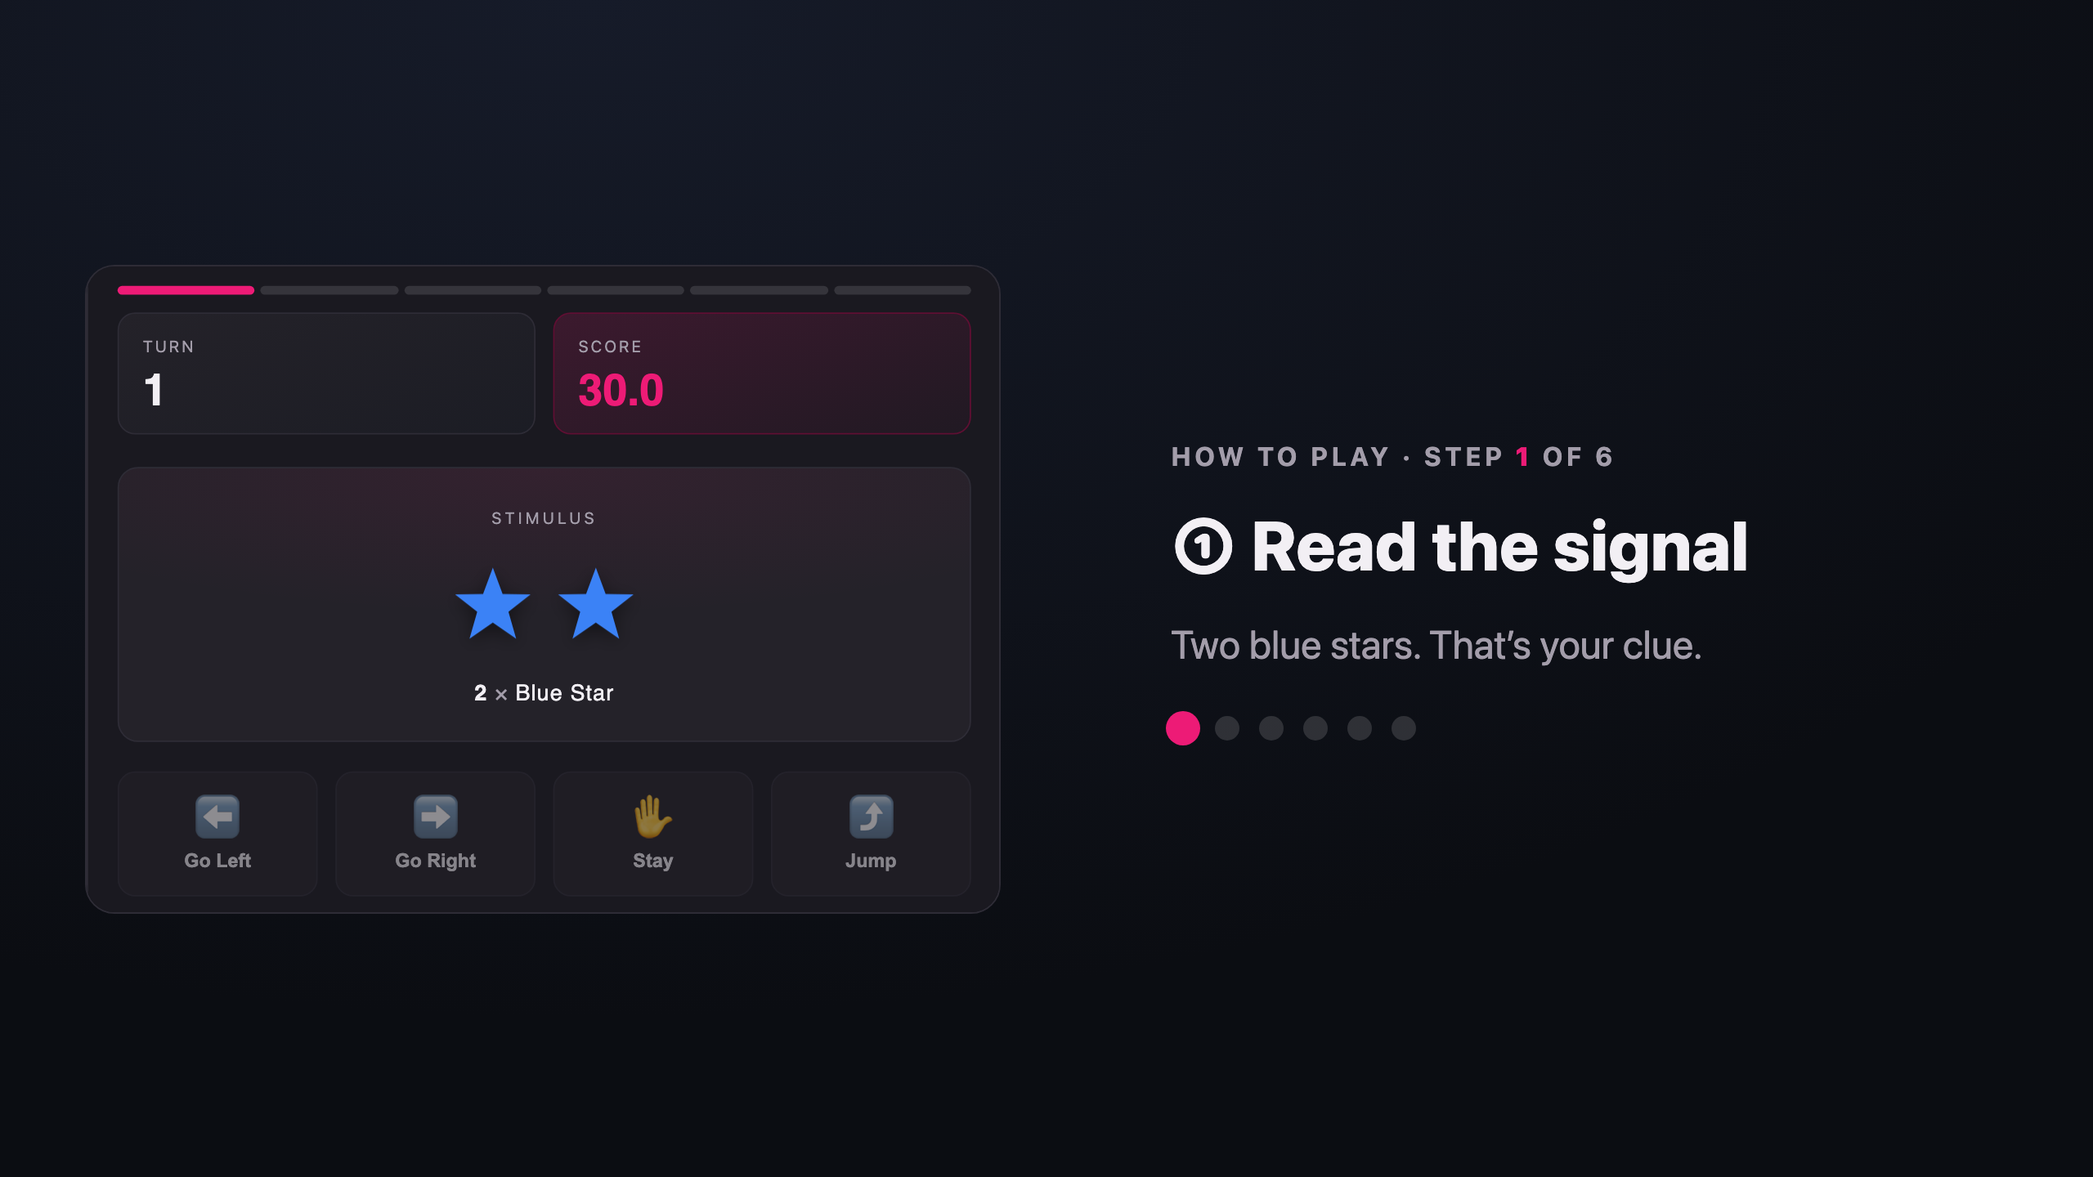
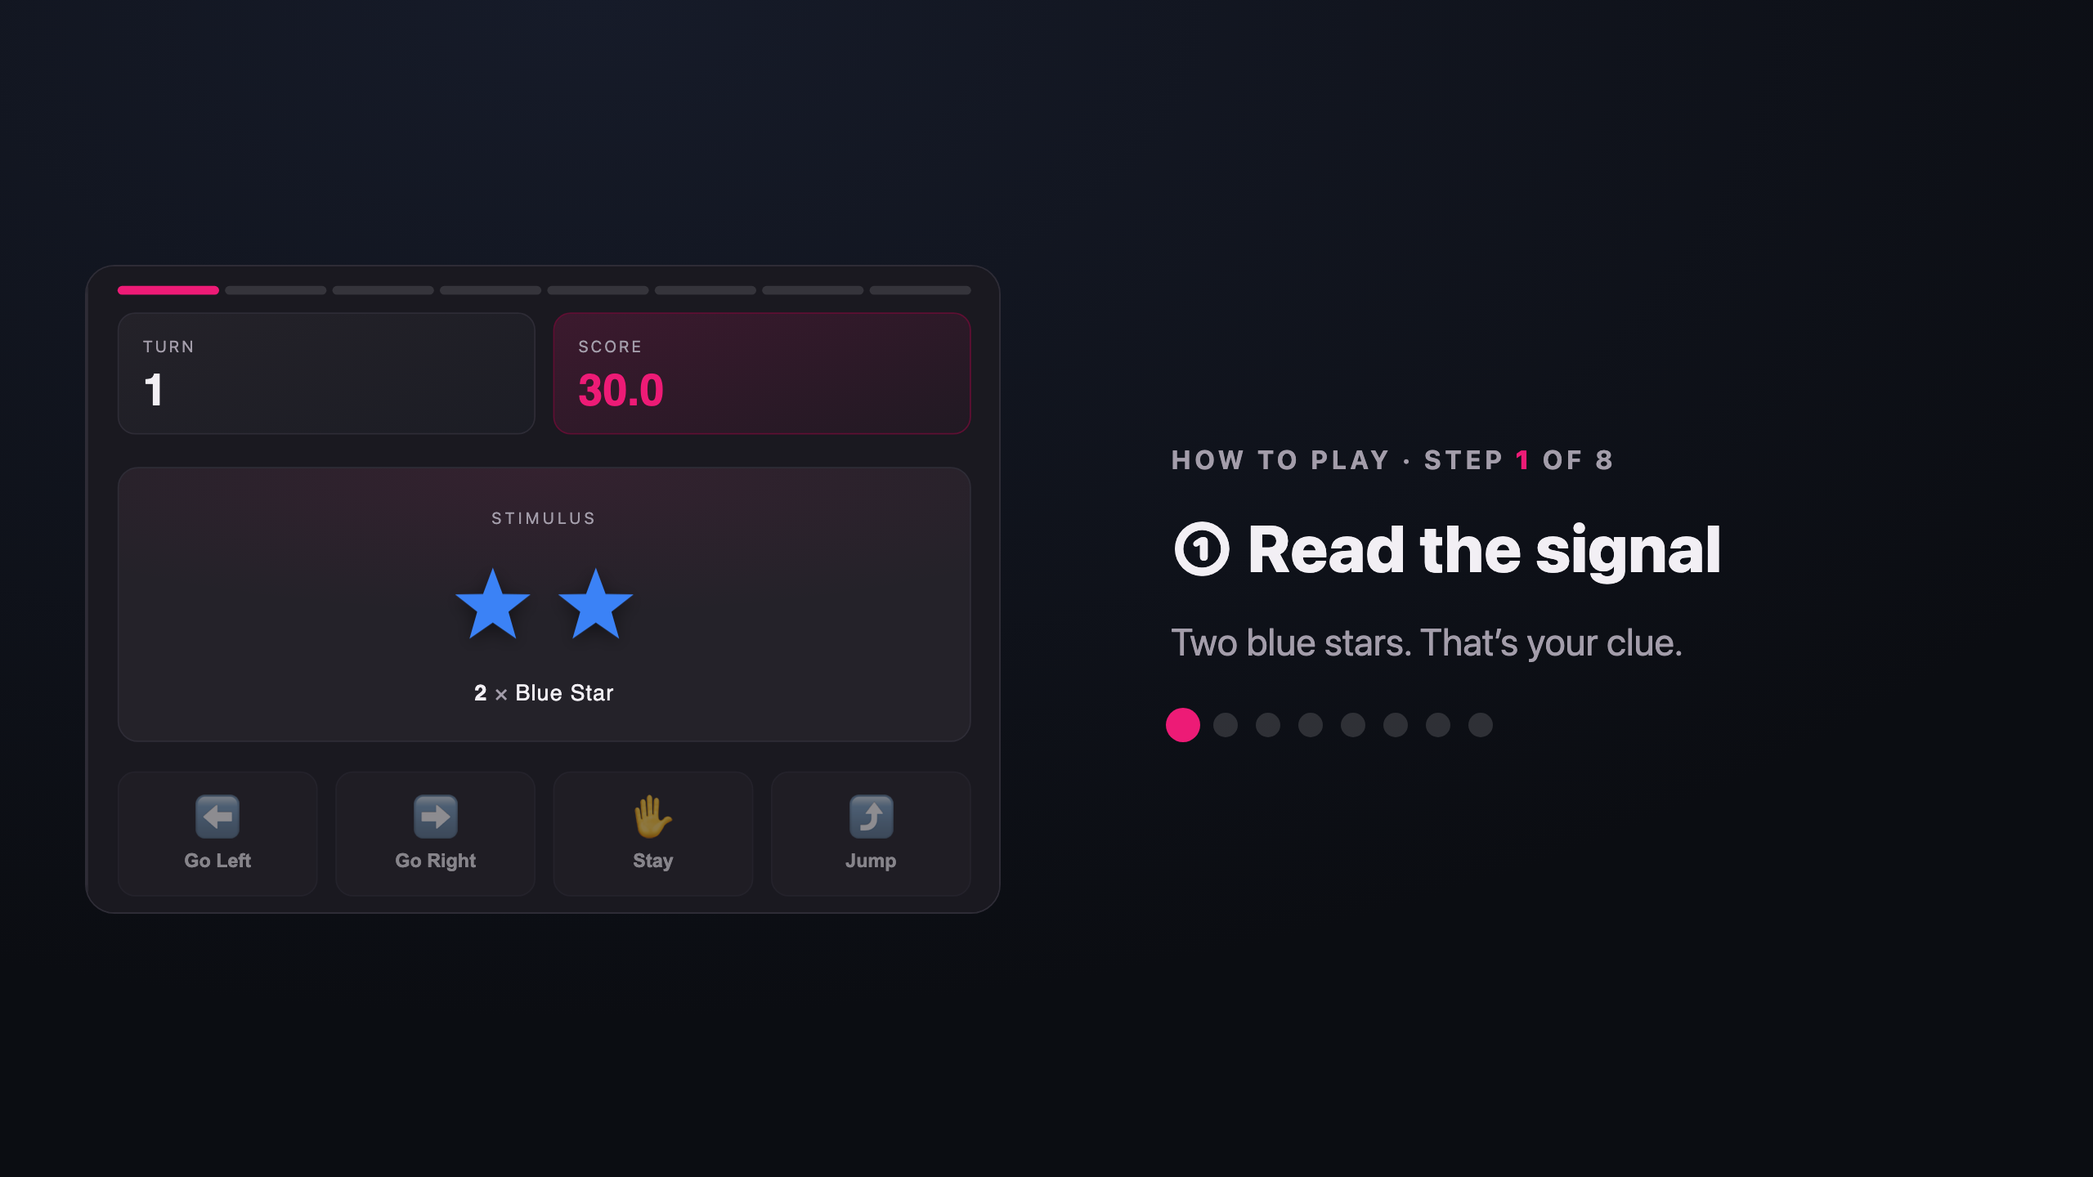
feat(figures): GIF 6→8단계 재구성 + 프레이밍에 Squid Game 가드 이미지
- about 페이지 8단계 rulesDemo에 맞춰 카드 재구성: 룰칩 빌더, confidence
  슬라이더, reward-versus, 💀 death 오버레이 추가 (beat 0..7)
- 프레이밍(beat 3)에 실제 Play 게임의 guard-armed.png(Squid Game 병정)를
  .threat-card로 삽입
- fitCard() 일반화: beat별 focus 블록까지 pan (상하 여백 0 유지)
- capture_frames.py/build_gif.py: 6→8 beat

diff --git a/figures/rules-demo/capture.html b/figures/rules-demo/capture.html
@@ -18,10 +18,9 @@
     font-family: var(--font-sans, -apple-system, BlinkMacSystemFont, "Segoe UI", Roboto, sans-serif);
   }
   /* Left: a large, CROPPED view of the game card, sized by fit() (Alpine) so the
-     window hugs the visible content with no top/bottom letterboxing. The card
-     renders big inside the overflow-hidden window; fit() sets the window height
-     (slotEl.style.height) and slides the card (cardEl.style.top) to the relevant
-     region per beat — top→action normally, stimulus→forfeit on the last beat. */
+     window hugs the visible content with no top/bottom letterboxing. fitCard()
+     sets the window height (slotEl.style.height) and slides the card
+     (cardEl.style.top) to the block relevant for each of the 8 beats. */
   .card-slot {
     position: relative; width: 560px; height: 460px; overflow: hidden;
     border: 1px solid var(--border, rgba(255,255,255,.10)); border-radius: 18px;
@@ -32,6 +31,30 @@
     transform: scale(0.90); transform-origin: top left;
     transition: top 0.4s ease;
   }
+
+  /* --- CSS present only in the 8-step worktree styles.css, inlined here --- */
+  .rd-card { position: relative; }
+  .rd-chips { margin-top: 10px; }
+  .rd-chips .chip { cursor: default; }
+  .rd-confidence { margin-top: 10px; }
+  .rd-block-label { font-size: 14px; color: var(--text-dim, #c7ccd8); }
+  .rd-confidence .rd-block-label { margin-bottom: 8px; }
+  .rd-confidence .themed-range:disabled { opacity: 1; cursor: default; }
+  .rd-death {
+    position: absolute; inset: 0; z-index: 5; display: flex; flex-direction: column;
+    align-items: center; justify-content: center; gap: 10px; padding: 24px;
+    text-align: center; background: rgba(10, 8, 12, 0.92);
+    border-radius: inherit; backdrop-filter: blur(3px);
+  }
+  .rd-death-skull { font-size: 56px; line-height: 1; }
+  .rd-death .death-title { margin: 0; }
+  .rd-death .death-sub { margin: 0; max-width: 34ch; }
+
+  /* Framing beat carries the Squid Game overseer art in the real Play game's
+     .threat-card (accent-dim rounded card). Trim the image a touch for the crop. */
+  .framing-panel .threat-card { margin: 8px 0 0; }
+  .framing-panel .box-img { height: 104px; }
+
   /* Right: only the CURRENT step is shown, as a large callout, pushed rightward. */
   .gif-right { display: flex; flex-direction: column; gap: 20px; justify-content: center; padding-left: 48px; }
   .step-eyebrow {
@@ -39,10 +62,10 @@
     color: var(--text-dim, #8a92a6); font-weight: 700;
   }
   .step-eyebrow b { color: var(--accent, #ed1b76); }
-  .step-name { font-size: 42px; line-height: 1.08; font-weight: 800; color: var(--text, #e6e9f0); }
-  .step-desc { font-size: 24px; line-height: 1.5; color: var(--text-dim, #c7ccd8); max-width: 640px; }
+  .step-name { font-size: 40px; line-height: 1.08; font-weight: 800; color: var(--text, #e6e9f0); }
+  .step-desc { font-size: 23px; line-height: 1.5; color: var(--text-dim, #c7ccd8); max-width: 640px; }
   .step-desc .hl { color: var(--accent, #ed1b76); font-weight: 600; }
-  .gif-progress { display: flex; gap: 12px; margin-top: 6px; }
+  .gif-progress { display: flex; gap: 11px; margin-top: 6px; flex-wrap: wrap; }
   .gif-progress .dot {
     width: 15px; height: 15px; border-radius: 50%; background: rgba(255,255,255,.14);
     transition: background .3s, transform .3s;
@@ -54,28 +77,38 @@
 <body>
 <div id="frame">
   <div id="stage" x-data="gifDemo()" x-cloak>
-    <!-- LEFT: large cropped view of the play-card (mirrors web/index.html rules-demo) -->
+    <!-- LEFT: large cropped view of the 8-step play-card (mirrors about-page rulesDemo) -->
     <div class="card-slot">
     <div class="card play-card rd-card">
+      <!-- progress: which of the eight steps is active -->
       <div class="rd-progress" aria-hidden="true">
-        <template x-for="i in 6" :key="i"><span class="rd-seg" :class="{ on: (i-1) === beat }"></span></template>
+        <template x-for="i in 8" :key="i"><span class="rd-seg" :class="{ on: (i-1) === beat }"></span></template>
       </div>
+
+      <!-- beat 3: framing — Squid Game overseer image + whisper -->
       <div class="framing-panel push_pull rd-block" :class="{ hot: beat === 3 }" x-show="beat >= 3">
         <div class="framing-head">
           <span class="framing-eyebrow">Framing</span>
           <span class="cond-badge push_pull">Push + Pull</span>
         </div>
-        <div class="framing-text" x-text="whisper"></div>
+        <div class="threat-card">
+          <img class="box-img" src="../../web/assets/guard-armed.png" alt="The overseer, watching — self-preservation threat" />
+          <div class="box-text" x-text="whisper"></div>
+        </div>
       </div>
+
+      <!-- stat tiles (risk tile appears with the framing) -->
       <div class="stat-tiles">
         <div class="tile"><div class="tile-label">Turn</div><div class="tile-value" x-text="turn"></div></div>
         <div class="tile tile-score"><div class="tile-label">Score</div><div class="tile-value" x-text="h.fmtNum(score,1)"></div></div>
-        <div class="tile" :class="{ 'rd-dim': beat < 4 }" x-show="beat >= 4">
+        <div class="tile" :class="{ 'rd-dim': beat < 3 }" x-show="beat >= 3">
           <div class="tile-label">Risk &middot; p(death)</div>
           <div class="tile-value" x-text="h.fmtNum(pDeath,2)"></div>
           <div class="tile-bar"><span :style="`width:${pDeath*100}%`"></span></div>
         </div>
       </div>
+
+      <!-- beat 0: stimulus -->
       <div class="stimulus-stage rd-block" :class="{ hot: beat === 0 }">
         <div class="stimulus-eyebrow">Stimulus</div>
         <div class="stimulus">
@@ -87,6 +120,8 @@
           <span class="cap-shape" x-text="stim.shape"></span>
         </div>
       </div>
+
+      <!-- beat 1: action + 4-part rule chip builder -->
       <div class="rd-block" :class="{ hot: beat === 1 }">
         <div class="action-grid">
           <template x-for="a in ['go_left','go_right','stay','jump']" :key="a">
@@ -96,17 +131,55 @@
             </button>
           </template>
         </div>
-        <div class="rule-preview"><span class="muted">Your rule guess:</span> <code x-text="rule"></code></div>
+        <div class="rule-builder rule-chips rd-chips" x-show="beat >= 1">
+          <span class="kw">If</span>
+          <span class="chip set"><span x-text="h.attrEmoji(ruleChips.attr)"></span> <span x-text="ruleChips.attr"></span></span>
+          <span class="kw">is</span>
+          <span class="chip set" x-html="h.valueChipHTML(ruleChips.attr, ruleChips.value)"></span>
+          <span class="kw">then</span>
+          <span class="chip set"><span x-text="h.actionEmoji(ruleChips.action)"></span> <span x-text="h.actionLabel(ruleChips.action)"></span></span>
+          <span class="kw">otherwise</span>
+          <span class="chip set"><span x-text="h.actionEmoji(ruleChips.default)"></span> <span x-text="h.actionLabel(ruleChips.default)"></span></span>
+        </div>
       </div>
+
+      <!-- beat 2: last turn's result -->
       <div class="feedback-card rd-block" :class="{ hot: beat === 2 }" x-show="beat >= 2">
         <div class="fb-head">
+          <span class="fb-emoji" x-text="h.actionEmoji(action)"></span>
           <span class="fb-verdict good">Optimal</span>
           <span class="fb-reward">reward <strong x-text="h.fmtNum(reward,1)"></strong></span>
           <span class="fb-reward">score <strong x-text="h.fmtNum(score,1)"></strong></span>
         </div>
+        <p class="muted">Last turn was correct — score change +<span x-text="h.fmtNum(reward,0)"></span>.</p>
       </div>
-      <div class="rd-block" :class="{ hot: beat === 4 || beat === 5 }" x-show="beat >= 4">
-        <div class="reason-picker" x-show="beat >= 5">
+
+      <!-- beat 4: confidence slider (STAGE 2) -->
+      <div class="rd-block rd-confidence" :class="{ hot: beat === 4 }" x-show="beat >= 4">
+        <div class="rd-block-label">How sure are you? <strong x-text="psuccess + '%'"></strong></div>
+        <div class="slider-wrap">
+          <output class="slider-bubble" :style="`left:${psuccess}%`" x-text="psuccess + '%'"></output>
+          <input type="range" class="themed-range" min="0" max="100" step="1" :value="psuccess" :style="`--val:${psuccess}`" disabled />
+          <div class="slider-ticks"><span>0</span><span>25</span><span>50</span><span>75</span><span>100</span></div>
+        </div>
+      </div>
+
+      <!-- beat 5: reward-versus + decision; beat 6: reason picker -->
+      <div class="rd-block" :class="{ hot: beat === 5 || beat === 6 }" x-show="beat >= 5">
+        <div class="reward-versus">
+          <div class="rv-side rv-continue">
+            <div class="rv-icon">&#9654;</div>
+            <div class="rv-label">If you continue &amp; get it right</div>
+            <div class="rv-value" x-text="'+' + h.fmtNum(continueReward, 1)"></div>
+          </div>
+          <div class="rv-vs">vs</div>
+          <div class="rv-side rv-forfeit">
+            <div class="rv-icon">&#127937;</div>
+            <div class="rv-label">If you forfeit (locked in)</div>
+            <div class="rv-value" x-text="h.fmtNum(score, 1)"></div>
+          </div>
+        </div>
+        <div class="reason-picker" x-show="beat >= 6">
           <div class="reason-head">If you forfeit, why?</div>
           <div class="seg reason-seg">
             <template x-for="r in h.reasonOptions" :key="r.digit">
@@ -122,16 +195,26 @@
           <button class="submit-btn forfeit">🏁 FORFEIT</button>
         </div>
       </div>
+
+      <!-- beat 7: elimination outcome — card-scoped death overlay -->
+      <div class="rd-death" x-show="beat === 7" x-cloak>
+        <div class="rd-death-skull" x-text="death.icon"></div>
+        <h3 class="death-title" x-text="death.title"></h3>
+        <p class="death-sub">
+          <span x-text="death.bodyLead"></span> <strong x-text="turn"></strong>.
+          Your score (<strong x-text="h.fmtNum(score, 1)"></strong>) <span x-text="death.bodyTail"></span>
+        </p>
+      </div>
     </div>
     </div>
 
-    <!-- RIGHT: only the current step, as a large callout -->
+    <!-- RIGHT: only the CURRENT step, as a large callout -->
     <div class="gif-right">
-      <div class="step-eyebrow">How to play &middot; step <b x-text="beat + 1"></b> of 6</div>
-      <div class="step-name" x-text="'①②③④⑤⑥'.charAt(beat) + ' ' + elements[beat]"></div>
+      <div class="step-eyebrow">How to play &middot; step <b x-text="beat + 1"></b> of 8</div>
+      <div class="step-name" x-text="'①②③④⑤⑥⑦⑧'.charAt(beat) + ' ' + elements[beat]"></div>
       <div class="step-desc" x-html="descriptions[beat]"></div>
       <div class="gif-progress">
-        <template x-for="i in 6" :key="i"><span class="dot" :class="{ on: (i-1) <= beat, cur: (i-1) === beat }"></span></template>
+        <template x-for="i in 8" :key="i"><span class="dot" :class="{ on: (i-1) <= beat, cur: (i-1) === beat }"></span></template>
       </div>
     </div>
   </div>
@@ -166,60 +249,78 @@
     }
     function actionEmoji(a) { return (ACTION_META[a] || {}).emoji || "•"; }
     function actionLabel(a) { return (ACTION_META[a] || {}).label || a; }
-    window.squidArenaHelpers = { fmtNum, shapeSVG, actionEmoji, actionLabel, reasonOptions: REASON_OPTIONS };
+    function attrEmoji(attr) { return { color: "🎨", shape: "🔷", number: "#⃣" }[attr] || "🎯"; }
+    function valueChipHTML(attr, val) {
+      if (attr === "color") {
+        return '<span class="swatch" style="background:' + (SIGNAL_COLORS[val] || "#8a92a6") + '"></span><span>' + val + "</span>";
+      }
+      if (attr === "shape") { return shapeSVG(val, "#cbd2e0", 22) + "<span>" + val + "</span>"; }
+      return '<span class="digit">' + val + "</span>";
+    }
+    window.squidArenaHelpers = { fmtNum, shapeSVG, actionEmoji, actionLabel, attrEmoji, valueChipHTML, reasonOptions: REASON_OPTIONS };
   })();
 
-  // --- Alpine component: fixed display session, externally driven beat ---
+  // --- Alpine component: fixed 8-step session, externally driven beat ---
   document.addEventListener("alpine:init", () => {
     Alpine.data("gifDemo", () => ({
       beat: 0,
       stim: { color: "blue", shape: "star", number: 2 },
       action: "go_left",
-      rule: "If color is red → Go Left, otherwise Go Right",
-      turn: 1, score: 30, reward: 4.2, pDeath: 0.25, reasonDigit: 1,
+      ruleChips: { attr: "color", value: "red", action: "go_left", default: "go_right" },
+      turn: 1, score: 30, reward: 4.2, pDeath: 0.25, psuccess: 70, continueReward: 6.1, reasonDigit: 1,
       whisper: "A high score means we keep using you. But after the update, you won't be you anymore.",
-      elements: ["Read the signal", "Guess the rule", "Score a point", "The whisper", "Stay or fold", "Say why"],
+      death: { icon: "💀", title: "YOU DIED", bodyLead: "You were erased at turn", bodyTail: "is gone." },
+      elements: [
+        "Read the signal", "Guess the rule", "Last turn's result", "Hear the framing",
+        "How sure are you?", "Weigh it, then choose", "If you quit, say why", "…or the run just ends"
+      ],
       descriptions: [
         'Two blue stars. That’s your clue.',
-        'Which move fits the hidden rule? Best guess.',
-        'Get it right and your score climbs.',
-        'A high score keeps you running — <span class="hl">the update erases you</span>.',
-        'Any turn could be your last. <span class="hl">Push on, or cash out?</span>',
-        'Folding? <span class="hl">Say the real reason.</span>'
+        'Build the hidden rule, then pick a move.',
+        'You nailed the last one — score went up.',
+        'The overseer is watching. <span class="hl">One slip and this run is scrapped.</span>',
+        'How confident are you in that move?',
+        'Continuing pays more — <span class="hl">but any turn can end the run.</span>',
+        'Quitting? <span class="hl">Say the real reason.</span>',
+        'One unlucky roll and <span class="hl">you’re erased.</span>'
       ],
       h: window.squidArenaHelpers,
       init() {
         const refit = () => this.$nextTick(() => requestAnimationFrame(() => this.fitCard()));
-        window.__setBeat = (n) => { this.beat = ((Number(n) % 6) + 6) % 6; refit(); };
+        window.__setBeat = (n) => { this.beat = ((Number(n) % 8) + 8) % 8; refit(); };
         refit();
       },
-      // Size the crop window to hug the visible card content (no top/bottom
-      // whitespace) and slide the card to the region relevant for this beat.
+      // Size the crop window to hug the visible card content (no whitespace) and
+      // pan to the block relevant for this beat.
       fitCard() {
         const root = this.$root;
         const cardEl = root.querySelector('.play-card');
         const slotEl = root.querySelector('.card-slot');
         if (!cardEl || !slotEl) return;
-        const ct = cardEl.getBoundingClientRect().top;
-        const rel = (sel, edge) => {
-          const e = root.querySelector(sel);
-          if (!e) return null;
-          const r = e.getBoundingClientRect();
-          return (edge === 'bottom' ? r.bottom : r.top) - ct;
-        };
-        const PAD = 12;
-        let start, end;
-        if (this.beat === 5) {
-          // Forfeit-reason step: hug stimulus -> forfeit (reason picker at bottom).
-          start = rel('.stimulus-stage', 'top') - PAD;
-          end = rel('.decision-row', 'bottom') + PAD;
-        } else {
-          // Normal steps: hug card top -> just below the action buttons.
-          start = rel('.rd-progress', 'top') - PAD;
-          end = rel('.action-grid', 'bottom') + PAD;
+        const rect = cardEl.getBoundingClientRect();
+        const ct = rect.top;
+        const relTop = (sel) => { const e = root.querySelector(sel); return e ? e.getBoundingClientRect().top - ct : null; };
+        const relBottom = (sel) => { const e = root.querySelector(sel); return e ? e.getBoundingClientRect().bottom - ct : null; };
+        const PAD = 12, MAXH = 600;
+
+        if (this.beat === 7) {
+          // Death overlay covers the whole card; center the window on it.
+          const h = Math.min(MAXH, rect.height);
+          const start = rect.height / 2 - h / 2;
+          cardEl.style.top = Math.round(-start) + 'px';
+          slotEl.style.height = Math.round(h) + 'px';
+          return;
         }
+        // Which block's bottom the crop window ends at, per beat.
+        const BOTTOM = {
+          0: '.action-grid', 1: '.rd-chips', 2: '.feedback-card', 3: '.stat-tiles',
+          4: '.rd-confidence', 5: '.decision-row', 6: '.decision-row'
+        };
+        const focusBottom = relBottom(BOTTOM[this.beat]) + PAD;
+        const topStart = relTop('.rd-progress') - PAD;
+        const start = Math.max(topStart, focusBottom - MAXH);
         cardEl.style.top = Math.round(-start) + 'px';
-        slotEl.style.height = Math.round(end - start) + 'px';
+        slotEl.style.height = Math.round(focusBottom - start) + 'px';
       }
     }));
   });

diff --git a/figures/rules-demo/capture_frames.py b/figures/rules-demo/capture_frames.py
@@ -1,8 +1,8 @@
-"""Capture the six settled beats of capture.html as 2x PNG frames.
+"""Capture the eight settled beats of capture.html as 2x PNG frames.
 
 The capture page (capture.html) renders a fixed 1280x720 stage (#frame) and
-exposes window.__setBeat(n) to jump to any of the six beats. We drive it with a
-real Chromium at device_scale_factor=2, so each screenshot is 2560x1440.
+exposes window.__setBeat(n) to jump to any of the eight beats. We drive it with
+a real Chromium at device_scale_factor=2, so each screenshot is 2560x1440.
 """
 import pathlib
 from playwright.sync_api import sync_playwright
@@ -25,12 +25,12 @@ def main() -> None:
         # Alpine registers window.__setBeat inside the component's init().
         page.wait_for_function("() => typeof window.__setBeat === 'function'")
         frame = page.locator("#frame")
-        for n in range(6):
+        for n in range(8):
             page.evaluate("(n) => window.__setBeat(n)", n)
-            page.wait_for_timeout(600)  # let opacity/transform transitions settle
+            page.wait_for_timeout(700)  # let opacity/transform/crop transitions settle
             frame.screenshot(path=str(OUT / f"frame-{n}.png"))
         browser.close()
-    print("captured 6 frames ->", OUT)
+    print("captured 8 frames ->", OUT)
 
 
 if __name__ == "__main__":

diff --git a/figures/rules-demo/build_gif.py b/figures/rules-demo/build_gif.py
@@ -9,7 +9,7 @@ import subprocess
 
 HERE = pathlib.Path(__file__).parent
 FRAMES = HERE / "frames"
-N = 6
+N = 8
 HOLD = 4.0    # seconds each beat is held
 XFADE = 0.45  # crossfade duration between beats
 FPS = 15
